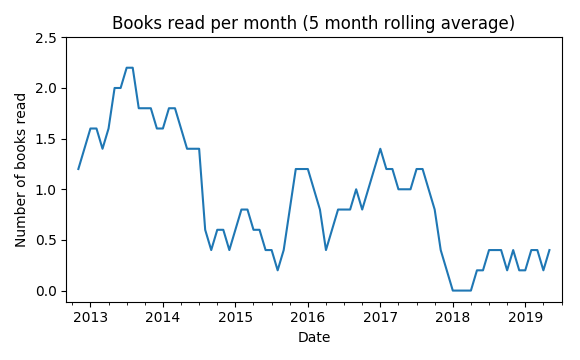
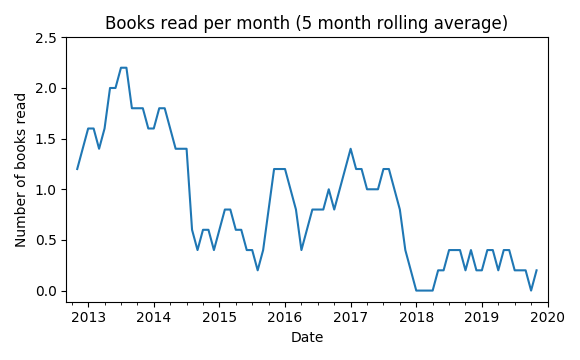
Ultralearning

diff --git a/README.md b/README.md
@@ -3,14 +3,17 @@
 I started this log on October 30th, 2012. I list all books I read.
 
 ### Statistics
-Total number of books read: 75  
-Books per month: 0.9 (2012/9 to 2019/7)
+Total number of books read: 76  
+Books per month: 0.85 (2012/9 to 2020/1)
 
 ![Books recorded by year](book_recorded.png)
 ![Books read per month](book_read.png)
 
 ### List of books
-*Game of Thrones*, George R. R. Martin  
+*Ultralearning*, Scott H. Young  
+Finished: 2020.01.06
+
+*A Game of Thrones*, George R. R. Martin  
 Finished: 2019.07.10
 
 *Rausch der Verwandlung*, Stefan Zweig  
